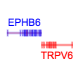
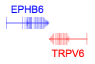
Updated the CHANGELOG, added function documentation, etc..."

Changed region(s): [[0.0506, 0.0625, 0.5316, 0.4688], [0.5063, 0.5, 0.9367, 0.9062]]

diff --git a/app/scripts/HorizontalGeneAnnotationsTrack.js b/app/scripts/HorizontalGeneAnnotationsTrack.js
@@ -9,8 +9,9 @@ import HorizontalTiled1DPixiTrack from './HorizontalTiled1DPixiTrack';
 import { tileProxy } from './services';
 
 // Utils
-import { colorToHex } from './utils';
+import { colorToHex, trackUtils } from './utils';
 
+// these are default values that are overwritten by the track's options
 const FONT_SIZE = 11;
 const FONT_FAMILY = 'Arial';
 const GENE_LABEL_POS = 'outside';
@@ -26,6 +27,9 @@ const MAX_FILLER_ENTRIES = 5000;
 const DEFAULT_PLUS_STRAND_COLOR = 'blue';
 const DEFAULT_MINUS_STRAND_COLOR = 'red';
 
+/**
+ * Event handler for when gene annotations are clicked on.
+ */
 const geneClickFunc = (event, track, payload) => {
   // fill rectangles are just indicators and are not meant to be
   // clicked on
@@ -77,32 +81,15 @@ const flagOverlappingFillers = (genes, fillers) => {
   });
 };
 
-const trackUtils = {
-  getTilePosAndDimensions: (tilesetInfo, tileId) => {
-    /**
-     * Get the tile's position in its coordinate system.
-     *
-     * See Tiled1DPIXITrack.js
-     */
-    const zoomLevel = +tileId.split('.')[0];
-    const xTilePos = +tileId.split('.')[1];
-
-    // max_width should be substitutable with 2 ** tilesetInfo.max_zoom
-    const totalWidth = tilesetInfo.max_width;
-
-    const minX = tilesetInfo.min_pos[0];
-
-    const tileWidth = totalWidth / 2 ** zoomLevel;
-
-    const tileX = minX + xTilePos * tileWidth;
-
-    return {
-      tileX,
-      tileWidth
-    };
-  }
-};
-
+/**
+ * Initialize a tile. Pulled out from the track so that it
+ * can be modified without having to modify the track
+ * object (e.g. in an Observable notebooke)
+ *
+ * @param  {HorizontalGeneAnnotationsTrack} track   The track object
+ * @param  {Object} tile    The tile to render
+ * @param  {Object} options The track's options
+ */
 function externalInitTile(track, tile, options) {
   const {
     flipText,
@@ -179,6 +166,7 @@ function externalInitTile(track, tile, options) {
   tile.initialized = true;
 }
 
+/** Draw generic rectangles... currently used for filler annotations */
 function renderRects(
   rects,
   track,
@@ -223,6 +211,7 @@ function renderRects(
   });
 }
 
+/** Draw the exons within a gene */
 function drawExons(
   track,
   graphics,
@@ -262,10 +251,10 @@ function drawExons(
   graphics.drawPolygon(poly);
   polys.push(poly);
 
-  // draw the little triangle
+  // the distance between the mini-triangles
   const triangleInterval = 2 * height;
 
-  // the first triangle will be drawn in renderGeneSymbols
+  // the first triangle (arrowhead) will be drawn in renderGeneSymbols
   for (
     let j = Math.max(track.position[0], xStartPos) + triangleInterval;
     j < Math.min(track.position[0] + track.dimensions[0], xStartPos + width);
@@ -350,6 +339,7 @@ function drawExons(
   return polys;
 }
 
+/** Draw the arrowheads at the ends of genes */
 function renderGeneSymbols(
   genes,
   track,
@@ -362,7 +352,6 @@ function renderGeneSymbols(
   height
 ) {
   const topY = centerY - height / 2;
-  // tile.rectGraphics.lineStyle(1, color, 0.2);
 
   genes.forEach(gene => {
     const xStart = track._xScale(gene.xStart);
@@ -487,6 +476,9 @@ function renderGenes(
   );
 }
 
+/** Create a preventing this track from drawing outside of its
+ * visible area
+ */
 function renderMask(track, tile) {
   const { tileX, tileWidth } = trackUtils.getTilePosAndDimensions(
     track.tilesetInfo,
@@ -505,6 +497,10 @@ function renderMask(track, tile) {
   tile.rectMaskGraphics.drawRect(x, y, width, height);
 }
 
+/** When zooming, we want to do fast scaling rather than re-rendering
+ * but if we do this too much, shapes (particularly arroheads) get
+ * distorted. This function keeps track of how stretched the track is
+ * and redraws it if it becomes too distorted (tileK < 0.5 or tileK > 2) */
 function stretchRects(track) {
   Object.values(track.fetchedTiles)
     // tile hasn't been drawn properly because we likely got some
@@ -537,18 +533,9 @@ class HorizontalGeneAnnotationsTrack extends HorizontalTiled1DPixiTrack {
    *
    * Arguments:
    * ----------
-   *  scene: PIXI.js scene (or graphics)
-   *      Where to draw everything.
-   *  dataConfig: object
-   *      Holds the server and tileset UID
-   *  handleTilesetInfoReceived: function
-   *      A callback to let the caller know that we've received the
-   *      tileset information for this track.
-   *  options: {}
-   *      An object containing all of the options that describe how this track should
-   *      be rendered
-   *  animate: callback
-   *      Function to be called when something in this track changes.
+   * context: Object related to the environment of this track
+   *   (e.g. renderer object, pubSubs)
+   * options: Options from the viewconf
    */
   constructor(context, options) {
     super(context, options);
@@ -563,6 +550,7 @@ class HorizontalGeneAnnotationsTrack extends HorizontalTiled1DPixiTrack {
     this.geneLabelPos = this.options.geneLabelPosition || GENE_LABEL_POS;
     this.geneRectHeight =
       +this.options.geneAnnotationHeight || GENE_RECT_HEIGHT;
+
     // Don't ask me why but rectangles and triangles seem to be drawn 2px larger
     // than they should be
     this.geneRectHeight -= 2;

diff --git a/app/scripts/utils/track-utils.js b/app/scripts/utils/track-utils.js
@@ -397,12 +397,37 @@ const zoomedY = (yPos, kMultiplier, transform, height) => {
   return zoomIdentity.translate(0, t1).scale(k1);
 };
 
+/**
+ * Get the tile's position in its coordinate system.
+ *
+ * See Tiled1DPIXITrack.js
+ */
+const getTilePosAndDimensions = (tilesetInfo, tileId) => {
+  const zoomLevel = +tileId.split('.')[0];
+  const xTilePos = +tileId.split('.')[1];
+
+  // max_width should be substitutable with 2 ** tilesetInfo.max_zoom
+  const totalWidth = tilesetInfo.max_width;
+
+  const minX = tilesetInfo.min_pos[0];
+
+  const tileWidth = totalWidth / 2 ** zoomLevel;
+
+  const tileX = minX + xTilePos * tileWidth;
+
+  return {
+    tileX,
+    tileWidth
+  };
+};
+
 const trackUtils = {
-  calculate1DZoomLevel,
   calculate1DVisibleTiles,
+  calculate1DZoomLevel,
   drawAxis,
-  zoomedY,
-  movedY
+  movedY,
+  getTilePosAndDimensions,
+  zoomedY
 };
 
 export default trackUtils;

diff --git a/docs/track_types.rst b/docs/track_types.rst
@@ -111,6 +111,27 @@ all annotated exons in refseq. There are separate tracks for the different
 available species. Details on how gene annotation tracks are created is available
 in the `gene annotations section <data_preparation.html#gene-annotation-tracks>`_.
 
+
+Event Handlers
+--------------
+
+- **click**: Called when a gene annotaion is clicked on. The parameter to the callback is a single object whose format is described below. Genome coordinates are offsets from position 0 as if the chromosomes were laid out end-to-end.
+
+.. code-block:: javascript
+
+  {
+    type: "gene-annotation",
+    event: [PIXI.js event object],
+    payload: {
+      xStart: [int: genome coordinate ],
+      xStart: [int: genome coordinate ],
+      offset: [int: start of this annotations chromosome (genome coordinate)],
+      uid: [string: unique identifier for this annotation],
+      fields: [array: genePred formatted array of values],
+      ... other fields
+    }
+  }
+
 Heatmap
 =======
 

diff --git a/CHANGELOG.md b/CHANGELOG.md
@@ -3,6 +3,8 @@
 ## Next release
 
 - Support for gene annotation "filler" regions
+- Clickable gene annotations
+- Slightly updated gene annotation style with arrowheads at the ends
 - Remove Content-Type headers when fetching genbank files
 - Added the fields `xRange` and `yRange` the object returned by the JavaScript API `.getLocation()` method.
 - Fixed blurry exported heatmap SVG graphics issue using the `image-rendering` CSS property.
